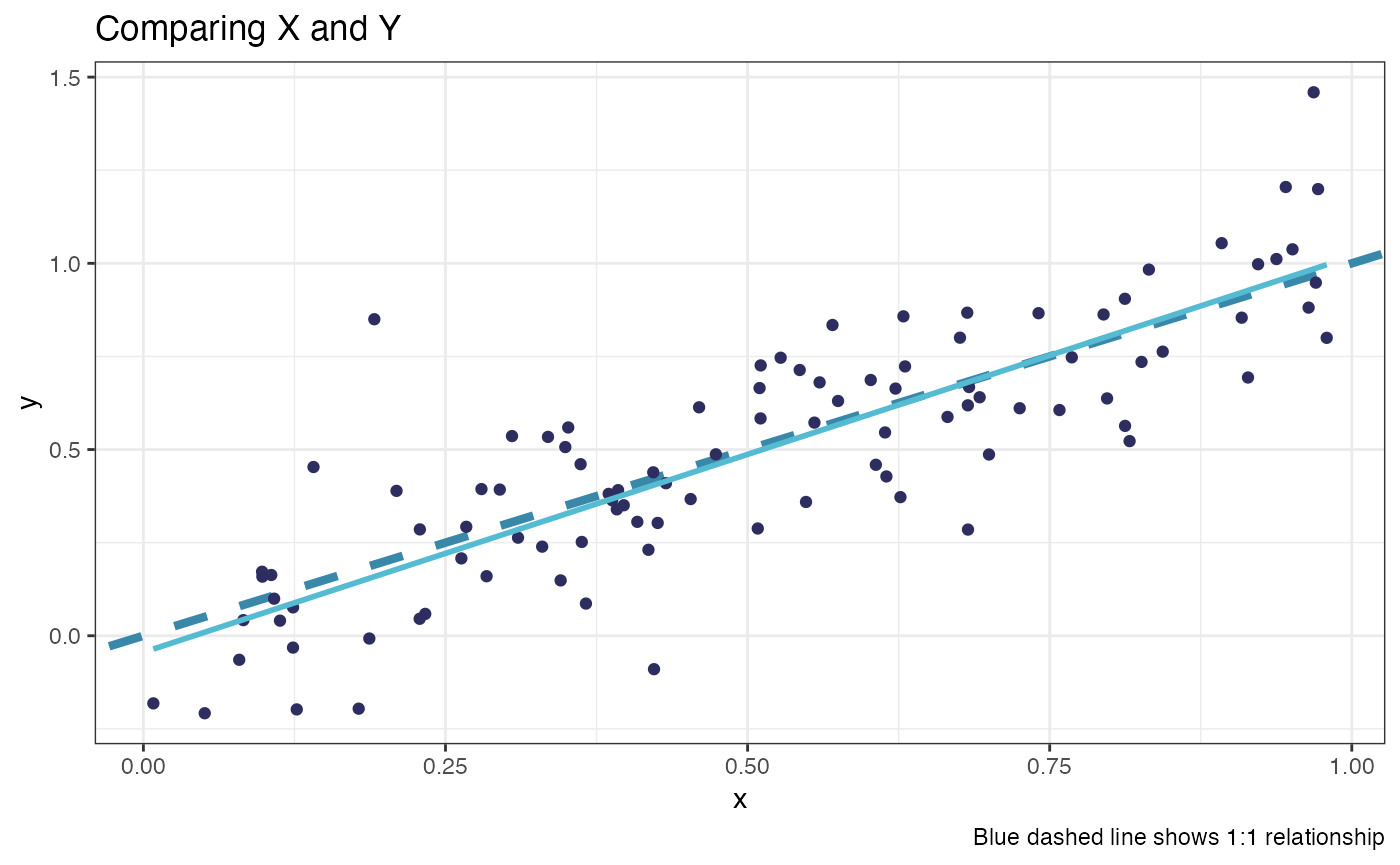
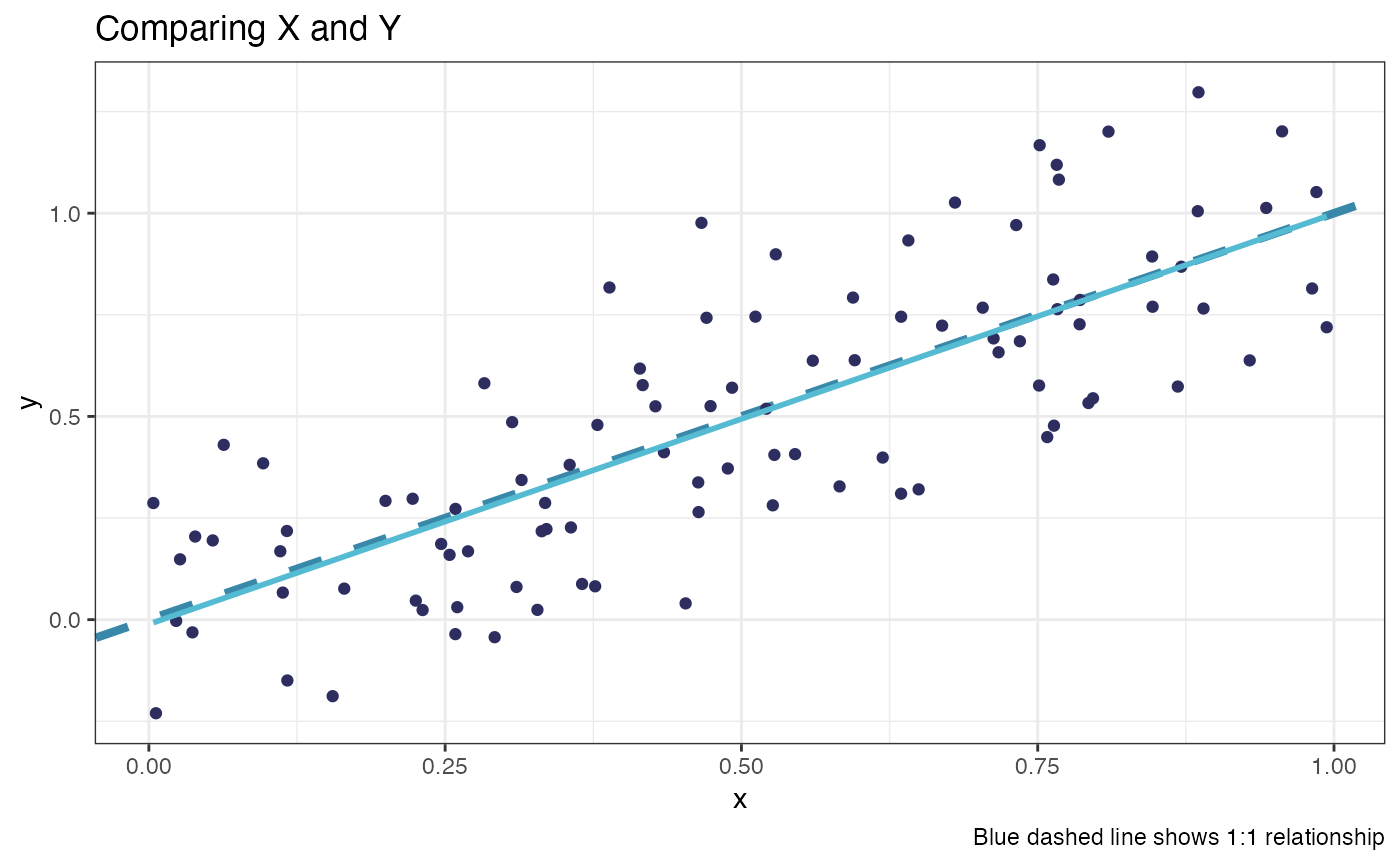
Fixing syntax in README

diff --git a/docs/articles/HGUTheme.html b/docs/articles/HGUTheme.html
@@ -166,18 +166,18 @@ regression line on top. First we can make some fake data</p>
 <span><span class="op">)</span></span>
 <span><span class="va">plot_data</span></span>
 <span><span class="co">#&gt; <span style="color: #949494;"># A tibble: 100 × 2</span></span></span>
-<span><span class="co">#&gt;        x      y</span></span>
-<span><span class="co">#&gt;    <span style="color: #949494; font-style: italic;">&lt;dbl&gt;</span>  <span style="color: #949494; font-style: italic;">&lt;dbl&gt;</span></span></span>
-<span><span class="co">#&gt; <span style="color: #BCBCBC;"> 1</span> 0.797 0.637 </span></span>
-<span><span class="co">#&gt; <span style="color: #BCBCBC;"> 2</span> 0.229 0.045<span style="text-decoration: underline;">6</span></span></span>
-<span><span class="co">#&gt; <span style="color: #BCBCBC;"> 3</span> 0.295 0.393 </span></span>
-<span><span class="co">#&gt; <span style="color: #BCBCBC;"> 4</span> 0.812 0.564 </span></span>
-<span><span class="co">#&gt; <span style="color: #BCBCBC;"> 5</span> 0.676 0.800 </span></span>
-<span><span class="co">#&gt; <span style="color: #BCBCBC;"> 6</span> 0.826 0.735 </span></span>
-<span><span class="co">#&gt; <span style="color: #BCBCBC;"> 7</span> 0.388 0.364 </span></span>
-<span><span class="co">#&gt; <span style="color: #BCBCBC;"> 8</span> 0.555 0.572 </span></span>
-<span><span class="co">#&gt; <span style="color: #BCBCBC;"> 9</span> 0.305 0.536 </span></span>
-<span><span class="co">#&gt; <span style="color: #BCBCBC;">10</span> 0.113 0.040<span style="text-decoration: underline;">6</span></span></span>
+<span><span class="co">#&gt;         x       y</span></span>
+<span><span class="co">#&gt;     <span style="color: #949494; font-style: italic;">&lt;dbl&gt;</span>   <span style="color: #949494; font-style: italic;">&lt;dbl&gt;</span></span></span>
+<span><span class="co">#&gt; <span style="color: #BCBCBC;"> 1</span> 0.096<span style="text-decoration: underline;">4</span>  0.385 </span></span>
+<span><span class="co">#&gt; <span style="color: #BCBCBC;"> 2</span> 0.886   1.30  </span></span>
+<span><span class="co">#&gt; <span style="color: #BCBCBC;"> 3</span> 0.489   0.372 </span></span>
+<span><span class="co">#&gt; <span style="color: #BCBCBC;"> 4</span> 0.797   0.545 </span></span>
+<span><span class="co">#&gt; <span style="color: #BCBCBC;"> 5</span> 0.366   0.087<span style="text-decoration: underline;">9</span></span></span>
+<span><span class="co">#&gt; <span style="color: #BCBCBC;"> 6</span> 0.680   1.03  </span></span>
+<span><span class="co">#&gt; <span style="color: #BCBCBC;"> 7</span> 0.669   0.723 </span></span>
+<span><span class="co">#&gt; <span style="color: #BCBCBC;"> 8</span> 0.378   0.479 </span></span>
+<span><span class="co">#&gt; <span style="color: #BCBCBC;"> 9</span> 0.231   0.023<span style="text-decoration: underline;">6</span></span></span>
+<span><span class="co">#&gt; <span style="color: #BCBCBC;">10</span> 0.155  -<span style="color: #BB0000;">0.188</span> </span></span>
 <span><span class="co">#&gt; <span style="color: #949494;"># … with 90 more rows</span></span></span></code></pre></div>
 <p>Then we can make a simple plot that you might make for a
 presentation:</p>

diff --git a/docs/index.html b/docs/index.html
@@ -64,13 +64,8 @@
 </nav><div class="container template-home">
 <div class="row">
   <main id="main" class="col-md-9"><div class="section level1">
-<div class="page-header"><h1 id="hgutheme">HGUTheme<a class="anchor" aria-label="anchor" href="#hgutheme"></a>
+<div class="page-header"><h1 id="hgutheme-">HGUTheme <img src="reference/figures/HGUHex.png" align="right" alt="" width="180"><a class="anchor" aria-label="anchor" href="#hgutheme-"></a>
 </h1></div>
-<!-- README.md is generated from README.Rmd. Please edit that file -->
-</div>
-<div class="section level1">
-<h1 id="hgutheme-">HGUTheme <img src="reference/figures/HGUHex.png" align="right" alt="" width="180"><a class="anchor" aria-label="anchor" href="#hgutheme-"></a>
-</h1>
 <!-- badges: start -->
 
 <p>Unofficial ggplot2 themes using the colour palette of the MRC HGU logo.</p>
@@ -165,7 +160,6 @@
 </ul>
 </div>
 </div>
-
   </main><aside class="col-md-3"><div class="links">
 <h2 data-toc-skip>Links</h2>
 <ul class="list-unstyled">

diff --git a/README.md b/README.md
@@ -1,6 +1,4 @@
 
-# HGUTheme
-
 <!-- README.md is generated from README.Rmd. Please edit that file -->
 
 # HGUTheme <img src="man/figures/HGUHex.png" align="right" alt="" width="180" />
